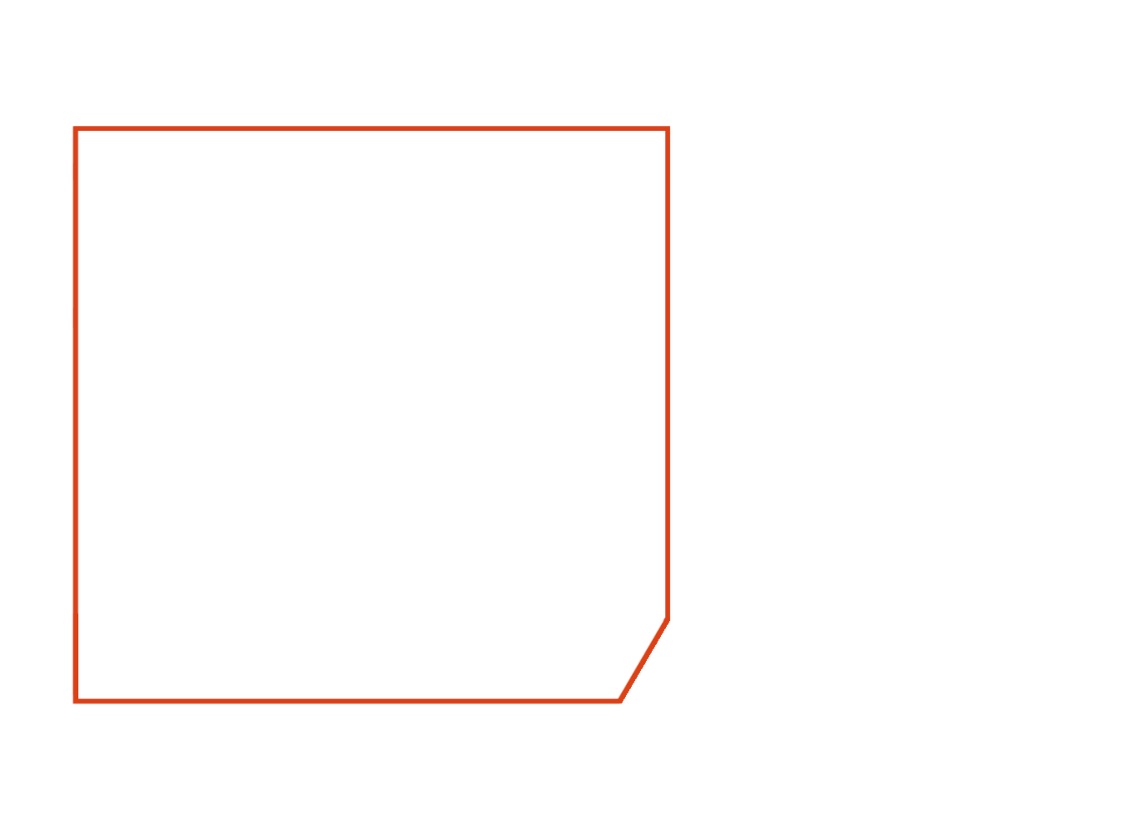
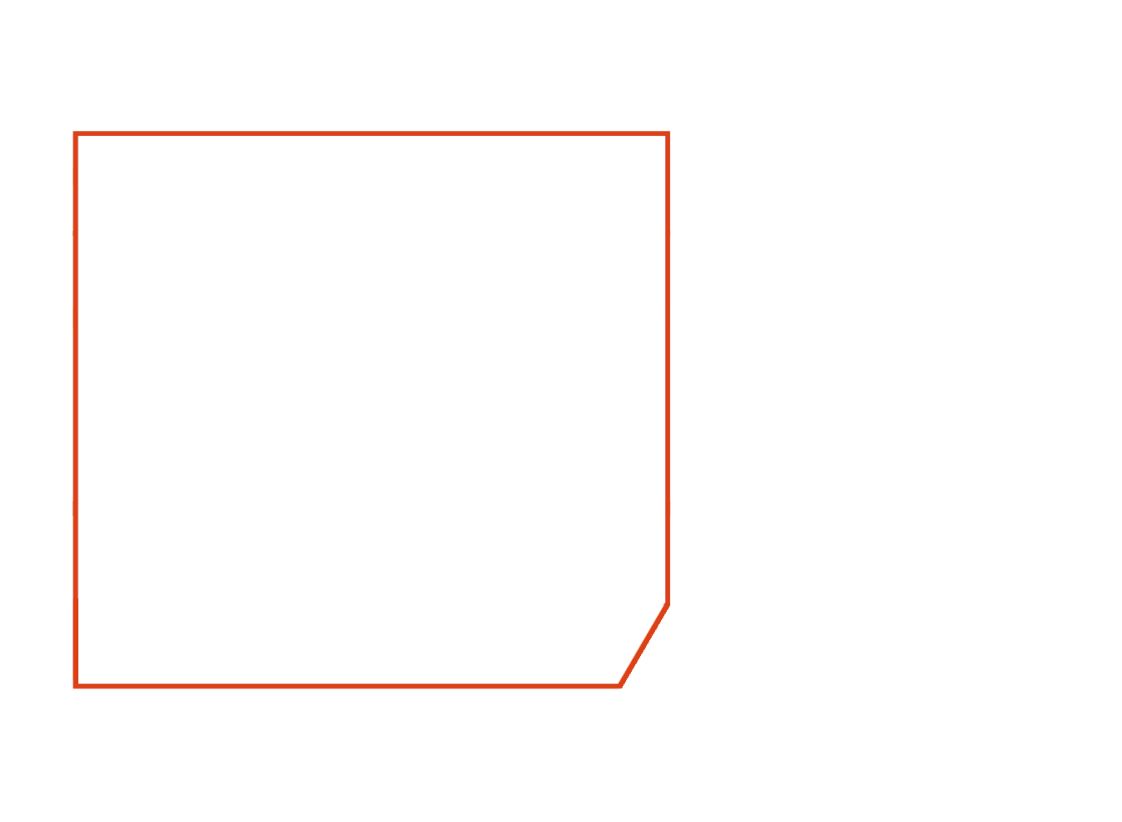
some minor format updates

Changed region(s): [[0.0624, 0.8212, 0.5615, 0.882], [0.0624, 0.1521, 0.5927, 0.1825], [0.5615, 0.7299, 0.6239, 0.8212]]

diff --git a/assets/js/card.js b/assets/js/card.js
@@ -137,9 +137,9 @@ drawCardName = function (value) {
     getContext().fillStyle = 'black';
     getContext().textAlign = "left";
     getContext().textBaseline = "middle";
-    writeScaled(value, { x: 72 +4, y: 85+4 });
+    writeScaled(value, { x: 72 +4, y: 100+4 });
     getContext().fillStyle = 'white';
-    writeScaled(value, { x: 72, y: 85 });
+    writeScaled(value, { x: 72, y: 100 });
 }
 
 drawCardCost = function (value) {
@@ -147,9 +147,9 @@ drawCardCost = function (value) {
     getContext().fillStyle = 'black';
     getContext().textAlign = "right";
     getContext().textBaseline = "middle";
-    writeScaled(value, { x: 1050 +4, y: 90+4 });
+    writeScaled(value, { x: 1050 +4, y: 105+4 });
     getContext().fillStyle = 'white';
-    writeScaled(value, { x: 1050, y: 90 });
+    writeScaled(value, { x: 1050, y: 105 });
 }
 
 
@@ -189,22 +189,22 @@ drawWeapons = function(fighterData){
     xValue = fighterData.weaponOffsetX;
     yValue = fighterData.weaponOffsetY;
 
-    getContext().drawImage(document.getElementById('frame_2a'), xValue + 0, yValue + 0, getCanvas().width, getCanvas().height);
+    getContext().drawImage(document.getElementById('frame_2a'), xValue + 0, yValue + 10, getCanvas().width, getCanvas().height);
     
     if(fighterData.weaponblock2Enabled){
-        getContext().drawImage(document.getElementById('frame_2b'), xValue + 0, yValue + 0, getCanvas().width, getCanvas().height);
+        getContext().drawImage(document.getElementById('frame_2b'), xValue + 0, yValue + 10, getCanvas().width, getCanvas().height);
     }
 
     if(fighterData.weapon1Icon){
-        getContext().drawImage(document.getElementById('melee'), xValue+90, yValue+370, 60, 60);
+        getContext().drawImage(document.getElementById('melee'), xValue+90, yValue+380, 60, 60);
     } else {
-        getContext().drawImage(document.getElementById('ranged'), xValue+90, yValue+370, 60, 60);
+        getContext().drawImage(document.getElementById('ranged'), xValue+90, yValue+380, 60, 60);
     }
     if(fighterData.weaponblock2Enabled){
         if(fighterData.weapon2Icon){
-            getContext().drawImage(document.getElementById('melee'), xValue+90, yValue+470, 60, 60);
+            getContext().drawImage(document.getElementById('melee'), xValue+90, yValue+480, 60, 60);
         } else {
-            getContext().drawImage(document.getElementById('ranged'), xValue+90, yValue+470, 60, 60);
+            getContext().drawImage(document.getElementById('ranged'), xValue+90, yValue+480, 60, 60);
         }
     }
     
@@ -225,39 +225,39 @@ drawWeapons = function(fighterData){
 
 
     getContext().fillStyle = 'black';
-    writeValue(getContext(), textValue, { x: xValue + 90, y: yValue + 330 });
+    writeValue(getContext(), textValue, { x: xValue + 90, y: yValue + 340 });
 
     // Weapon stats header
     getContext().fillStyle = 'black';
     getContext().font = '60px compacta-std';
     textValue = "A    BS/WS    D";
-    writeValue(getContext(), textValue, { x: xValue + 400, y: yValue + 330 });
+    writeValue(getContext(), textValue, { x: xValue + 400, y: yValue + 340 });
     
     // Weapon Numbers
     getContext().font = 'bold 36px franklin-gothic-book';
     textValue = fighterData.weapon1A + "       " + fighterData.weapon1S + "+     " + fighterData.weapon1Hit + "/" + fighterData.weapon1Crit;
-    writeValue(getContext(), textValue, { x: xValue + 400, y: yValue + 390 });
+    writeValue(getContext(), textValue, { x: xValue + 400, y: yValue + 400 });
     if(fighterData.weaponblock2Enabled){
         textValue = fighterData.weapon2A + "       " + fighterData.weapon2S + "+     " + fighterData.weapon2Hit + "/" + fighterData.weapon2Crit;
-        writeValue(getContext(), textValue, { x: xValue + 400, y: yValue + 490 });
+        writeValue(getContext(), textValue, { x: xValue + 400, y: yValue + 500 });
     }
 
     // Weapon Names
     getContext().font = 'bold 32px franklin-gothic-book';
     textValue = fighterData.weapon1Name;
-    writeValue(getContext(), textValue, { x: xValue + 155, y: yValue + 390 });
+    writeValue(getContext(), textValue, { x: xValue + 155, y: yValue + 400 });
     if(fighterData.weaponblock2Enabled){
         textValue = fighterData.weapon2Name;
-        writeValue(getContext(), textValue, { x: xValue + 155, y: yValue + 490 });
+        writeValue(getContext(), textValue, { x: xValue + 155, y: yValue + 500 });
     }
 
     // Weapon subtext
     getContext().font = '28px franklin-gothic-book';
     textValue = fighterData.weapon1Text;
-    writeValue(getContext(), textValue, { x: xValue + 155, y: yValue + 430 });
+    writeValue(getContext(), textValue, { x: xValue + 155, y: yValue + 440 });
     if(fighterData.weaponblock2Enabled){
         textValue = fighterData.weapon2Text;
-        writeValue(getContext(), textValue, { x: xValue + 155, y: yValue + 525 });
+        writeValue(getContext(), textValue, { x: xValue + 155, y: yValue + 535 });
     }    
 }
 
@@ -275,7 +275,7 @@ drawCardText = function (value) {
     text_array = (splitWordWrap(getContext(), value, fitWidth));
 
     for (line in text_array) {       
-        getContext().fillText(text_array[line], 90, 640 + (line * lineHeight));
+        getContext().fillText(text_array[line], 90, 650 + (line * lineHeight));
     }
 
     
@@ -502,11 +502,11 @@ function readControls() {
 
 function drawAbilities(fighterData){
     
-    getContext().drawImage(document.getElementById('frame_5'), 0, 0, getCanvas().width, getCanvas().height);
+    getContext().drawImage(document.getElementById('frame_5'), 0, 8, getCanvas().width, getCanvas().height);
     getContext().font = 'bold 36px franklin-gothic-book';
     getContext().fillStyle = 'Black';
     textValue = "Abilities: ";
-    writeScaled(textValue, { x: 90, y: 595 });
+    writeScaled(textValue, { x: 90, y: 604 });
     drawCardText(fighterData.cardText);
 
 
@@ -515,11 +515,11 @@ function drawAbilities(fighterData){
 function drawLargeCard(fighterData){
     
     if(fighterData.largerCardEnabled){
-        getContext().drawImage(document.getElementById('frame_4b'), 0, 0, getCanvas().width, getCanvas().height);    
-        fitWidth = 880;
+        getContext().drawImage(document.getElementById('frame_4b'), 0, 10, getCanvas().width, getCanvas().height);    
+        fitWidth = 860;
     } else {
-        getContext().drawImage(document.getElementById('frame_4'), 0, 0, getCanvas().width, getCanvas().height);
-        fitWidth = 580;
+        getContext().drawImage(document.getElementById('frame_4'), 0, 10, getCanvas().width, getCanvas().height);
+        fitWidth = 560;
     }
     
 
@@ -541,12 +541,12 @@ function drawLargeCard(fighterData){
             printText = text_array[line].replace("**", '');
             getContext().fillStyle = '#eb4a04';
             getContext().font = 'bold ' + font_size + 'px franklin-gothic-book';;
-            getContext().fillText(printText, 90, 160 + (line * lineHeight));
+            getContext().fillText(printText, 90, 170 + (line * lineHeight));
             getContext().font = font_size + 'px franklin-gothic-book';
             getContext().fillStyle = 'black';
         } else {
             getContext().font = font_size + 'px franklin-gothic-book';
-            getContext().fillText(text_array[line], 90, 160 + (line * lineHeight));
+            getContext().fillText(text_array[line], 90, 170 + (line * lineHeight));
         }
     }
     drawCardCost(fighterData.cardCost);
@@ -554,20 +554,20 @@ function drawLargeCard(fighterData){
 
 
 function drawStatsFrame(fighterData){
-    getContext().drawImage(document.getElementById('frame_1'), 0, 0, getCanvas().width, getCanvas().height);
+    getContext().drawImage(document.getElementById('frame_1'), 0, 13, getCanvas().width, getCanvas().height);
     // MA
-    drawNumber("M:" + fighterData.ma, 90, 170, false);
-    getContext().drawImage(document.getElementById('range_circle'), 170, 135, 70, 70);
+    drawNumber("M:" + fighterData.ma, 90, 170+13, false);
+    getContext().drawImage(document.getElementById('range_circle'), 170, 135+13, 70, 70);
     // ST
-    drawNumber("APL:" + fighterData.st, 250, 170, false);
+    drawNumber("APL:" + fighterData.st, 250, 170+13, false);
     // AG
-    drawNumber(" GA:" + fighterData.ag, 380, 170, true);
+    drawNumber(" GA:" + fighterData.ag, 380, 170+13, true);
     // PA
-    drawNumber(" DF:" + fighterData.pa, 80, 250, true);
+    drawNumber(" DF:" + fighterData.pa, 80, 250+13, true);
     //AV
-    drawNumber("SV:" + fighterData.av + "+", 210, 250, true);
+    drawNumber("SV:" + fighterData.av + "+", 210, 250+13, true);
     // MADE UP ONE
-    drawNumber("W:" + fighterData.wounds, 350, 250, true);
+    drawNumber("W:" + fighterData.wounds, 350, 250+13, true);
 }
 
 drawFrames = function (fighterData) {
